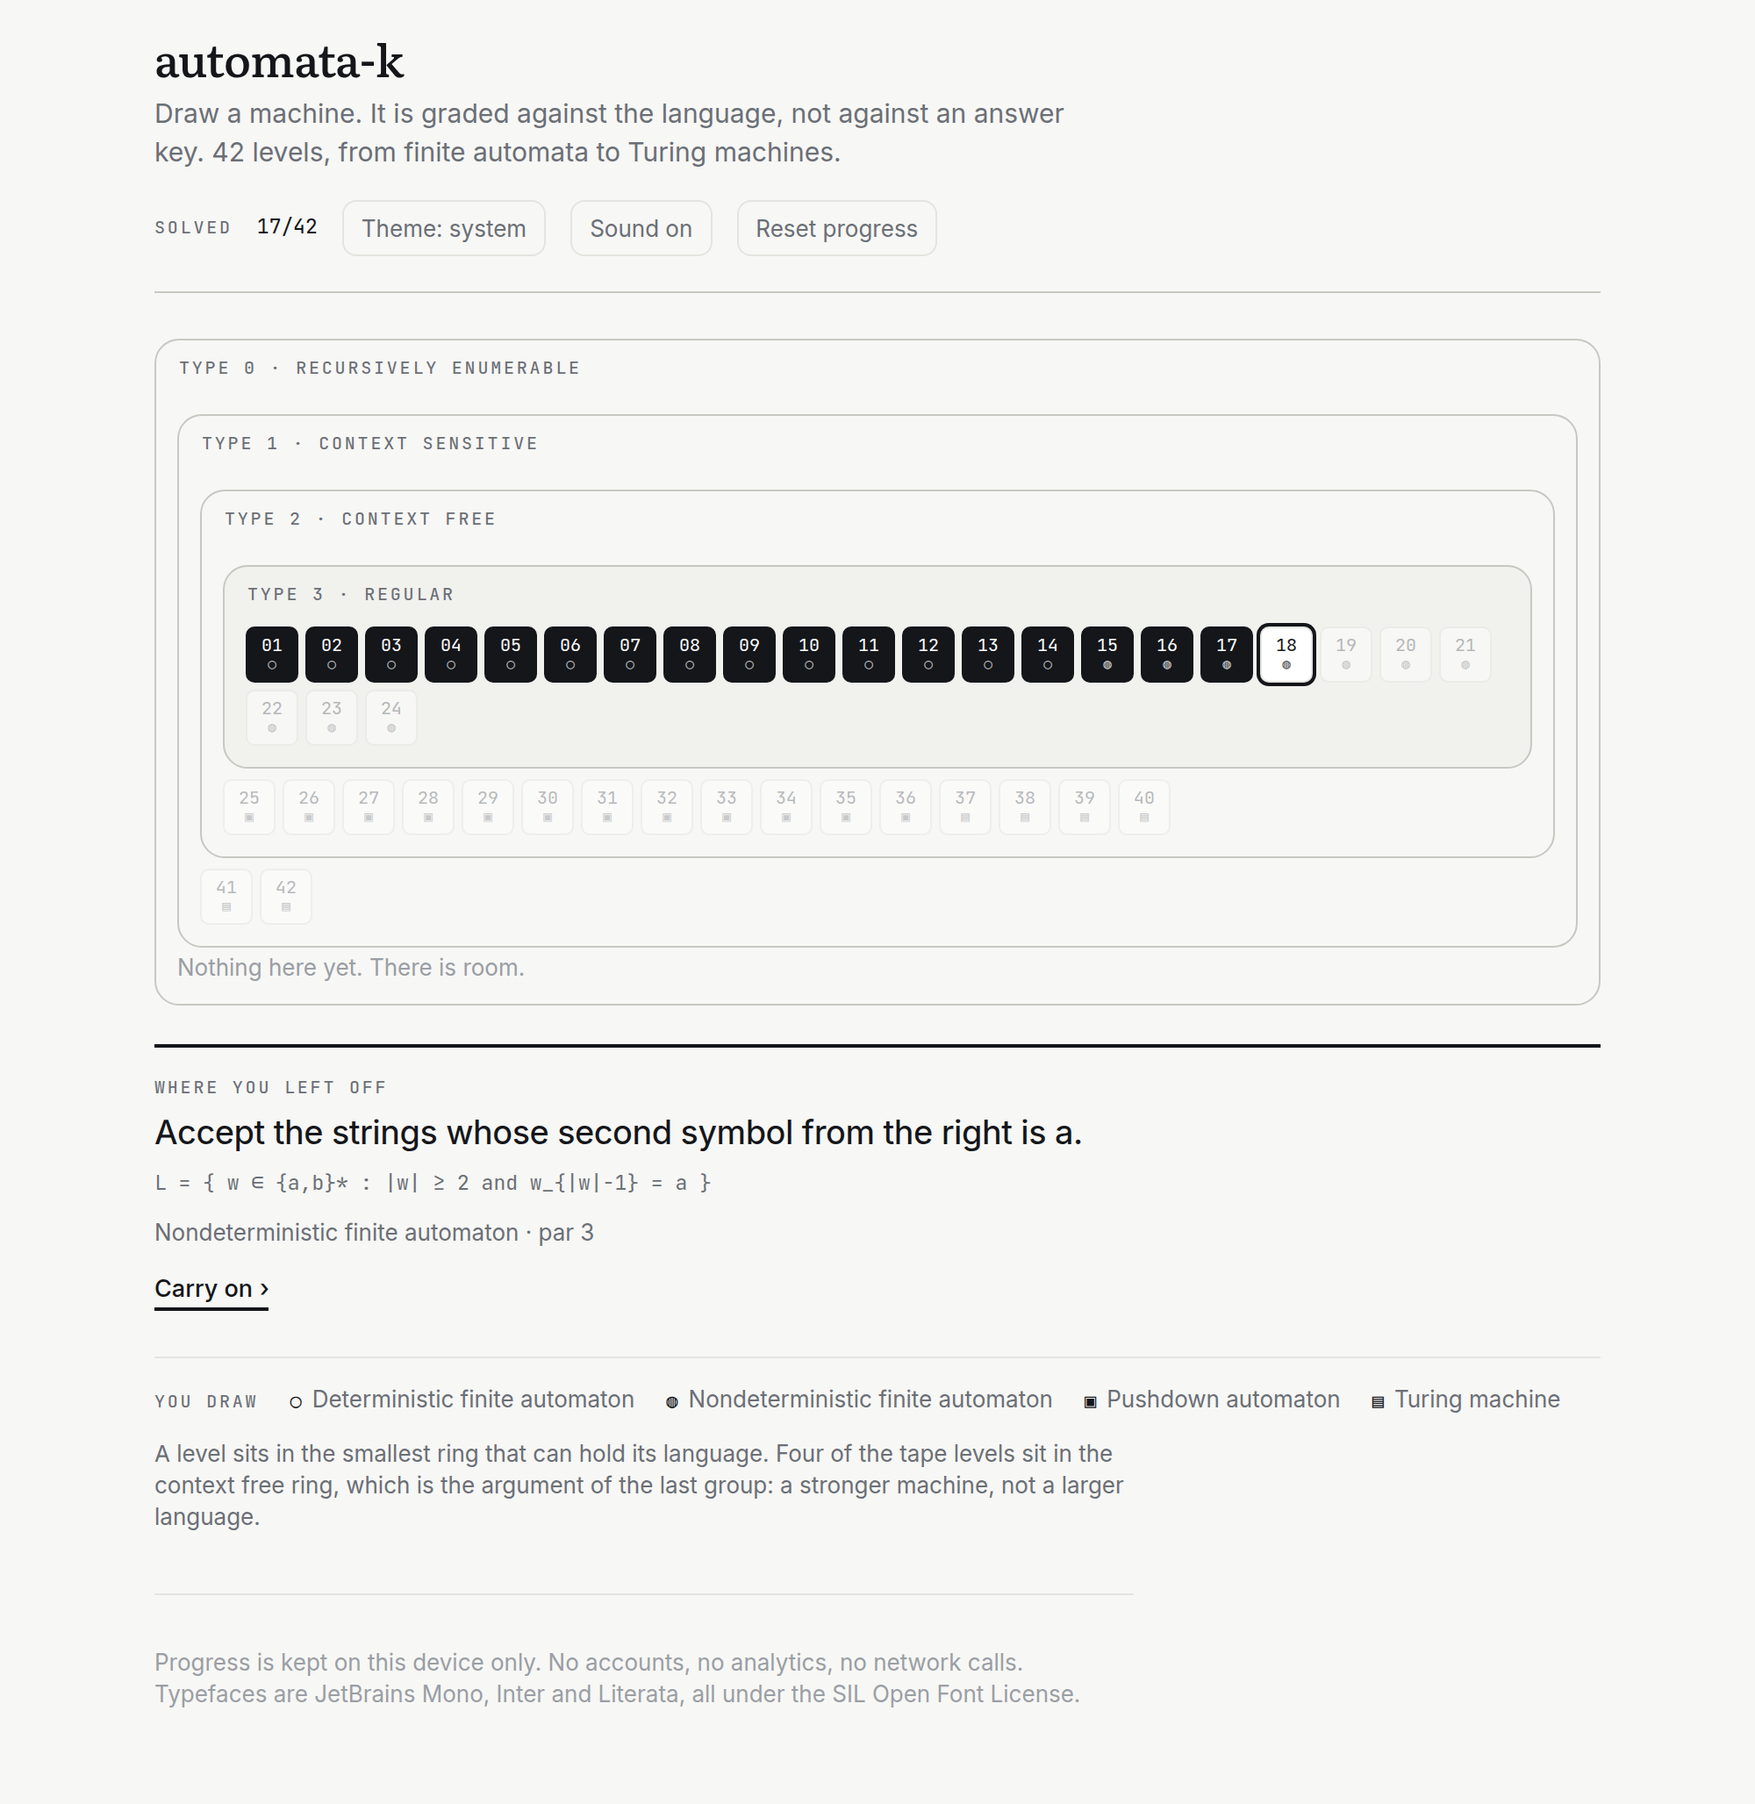
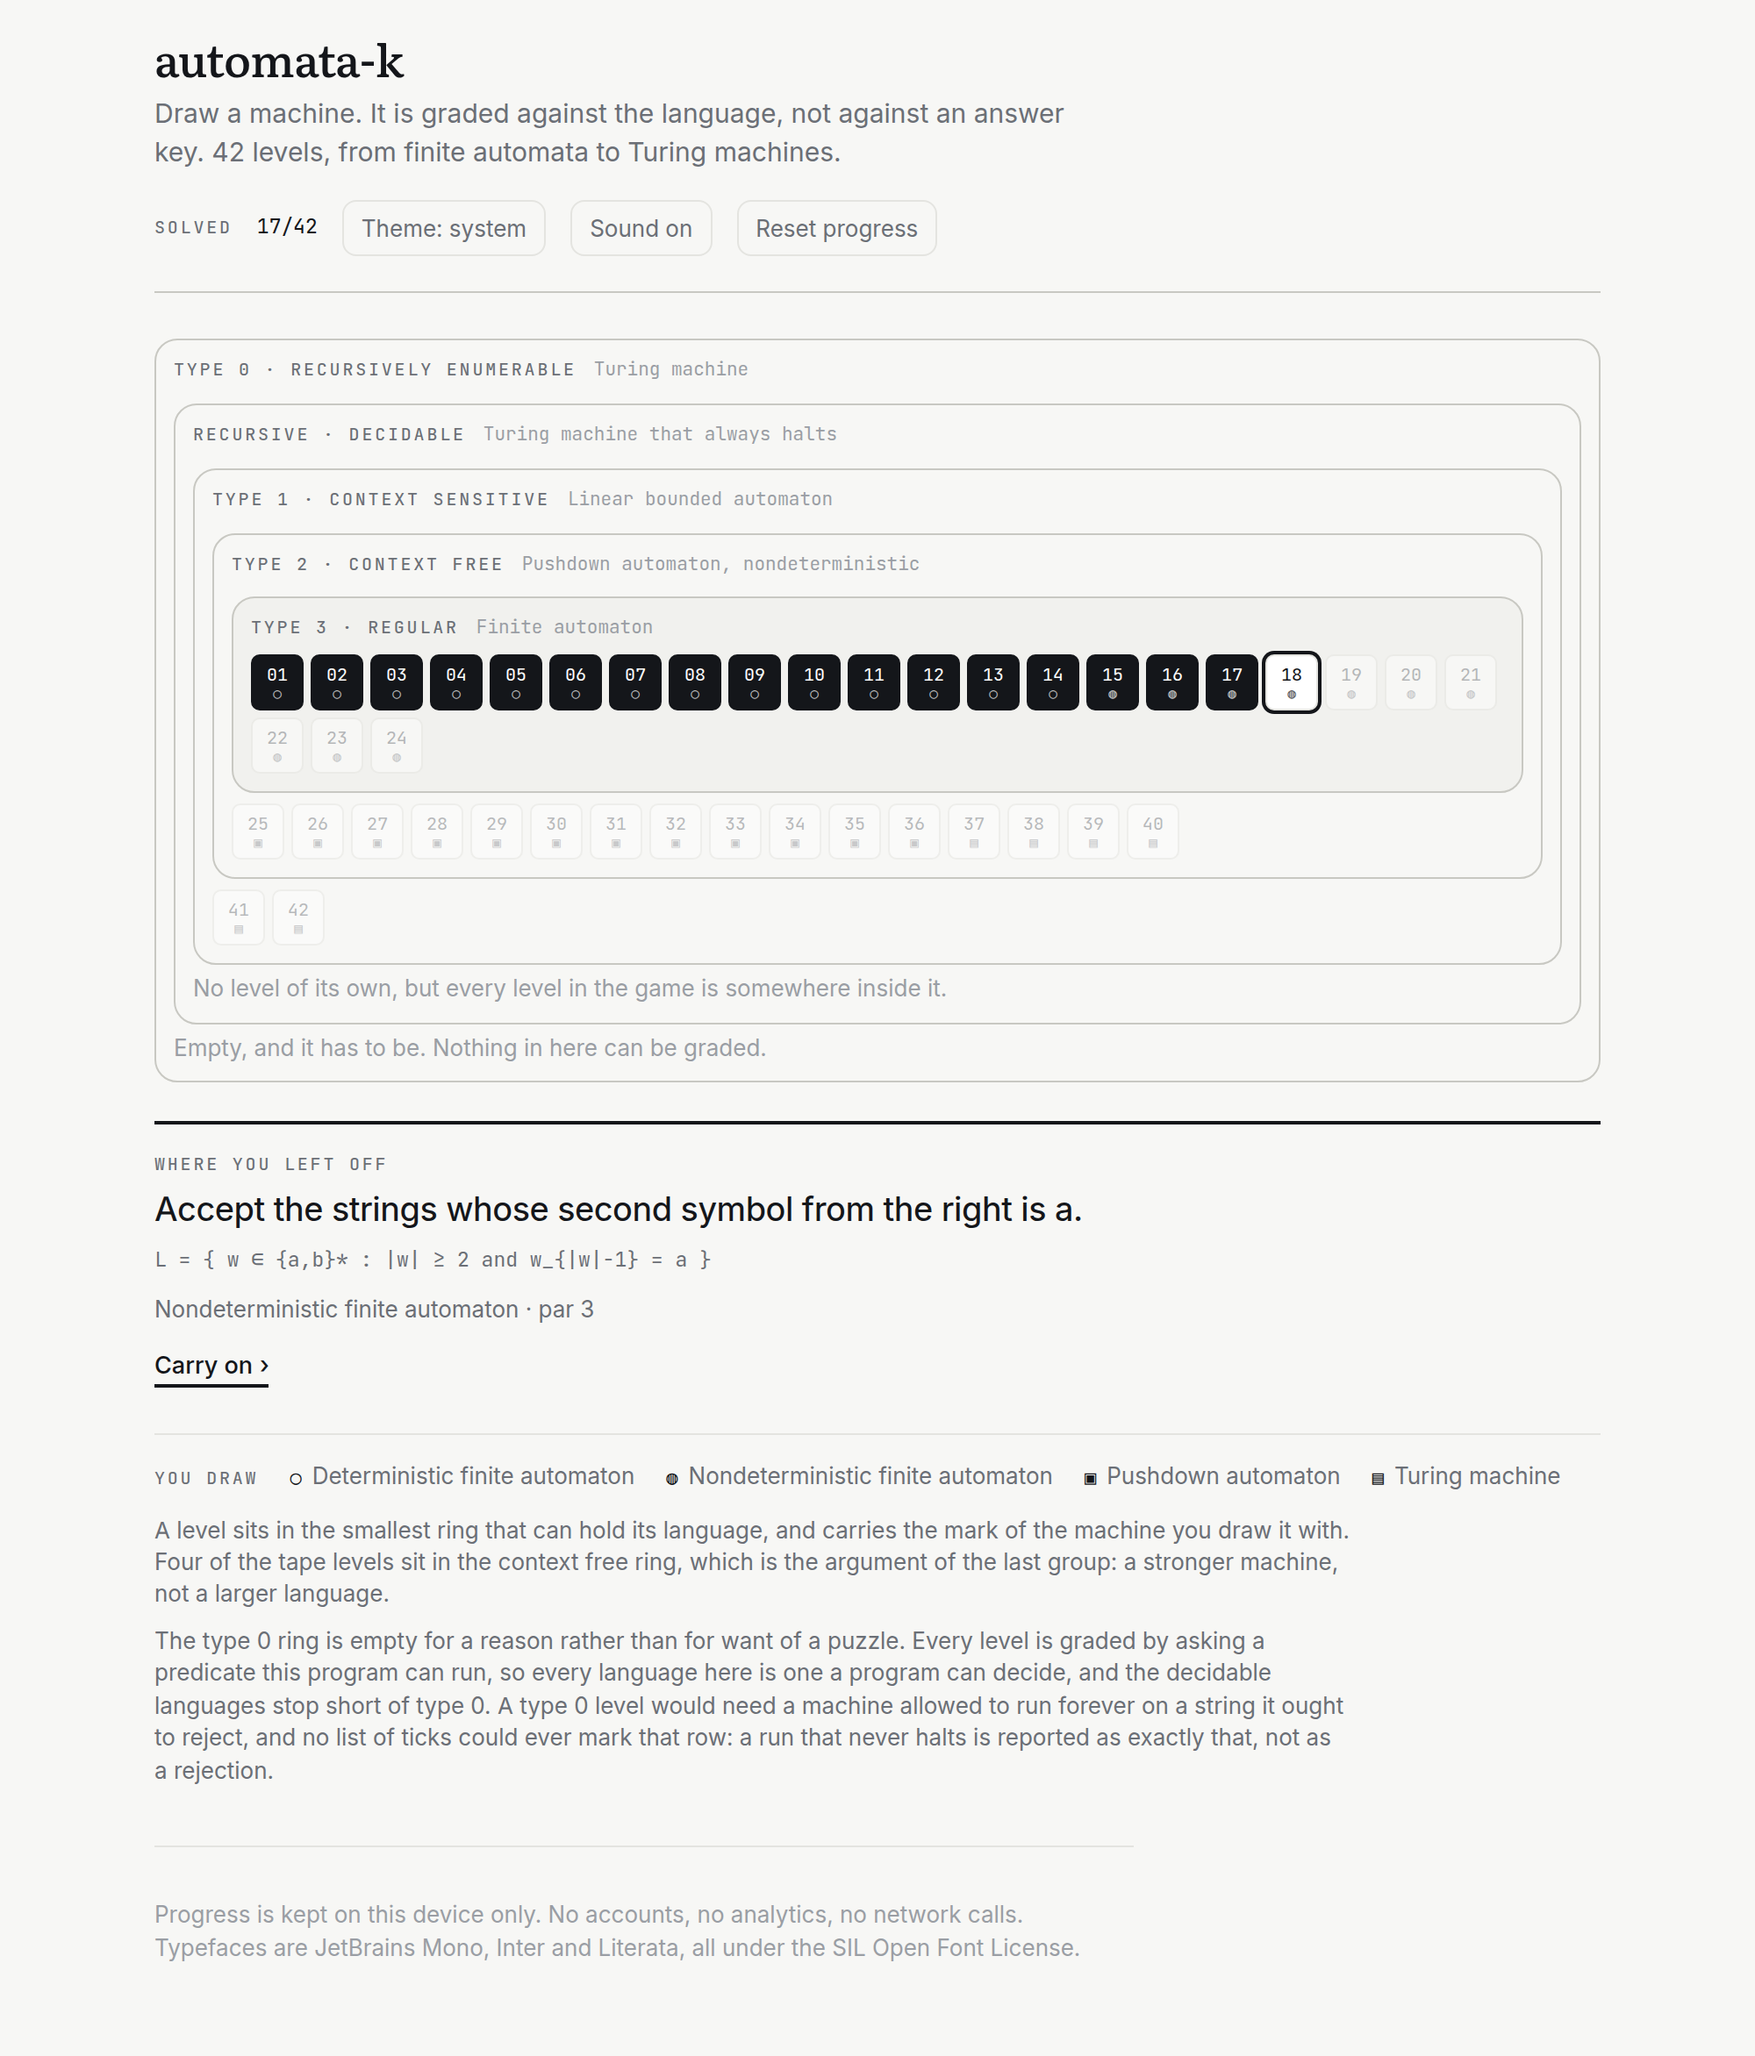
Name the automaton on every band, and say why type 0 is empty
Each band now carries the weakest machine that recognises everything in it,
the column the textbook table has and the level list never did: finite
automaton, pushdown automaton, linear bounded automaton, Turing machine.

And the answer to whether there can be a recursively enumerable puzzle is
no, structurally, which is worth more than a puzzle would have been. A level
is graded by asking a predicate this program runs, so every language here is
one a program can decide, and the decidable languages stop short of type 0.
A type 0 level would need a machine allowed to run forever on a string it
ought to reject, and no list of ticks could mark that row: simulate.ts
already reports a run that never halts as exactly that, never as a
rejection, and there is a test pinning that distinction.

So the recursive band is drawn. It is not one of Chomsky's four — Wikipedia
notes it sits properly between type 1 and type 0 — and it is where all forty
two levels live. That turns an empty ring reading "there is room" into an
empty ring that explains itself, which is the more interesting fact.

The band labels moved into flow. Absolutely placing them cost 28px of top
padding each, and five nested bands would have inset the regular languages
by 140px before the first dot.

Claude-Session: https://claude.ai/code/session_01Prr77wvNjGfi2it4qZKciv

diff --git a/web/src/views/home.ts b/web/src/views/home.ts
@@ -23,12 +23,36 @@ import { game } from '../store';
 import type { ThemeChoice } from '../store';
 import type { View } from './level';
 
-/** The rings, outermost first. Each holds the levels whose language it names. */
-const RINGS: { type: ChomskyType; label: string }[] = [
-  { type: 0, label: 'Type 0 · recursively enumerable' },
-  { type: 1, label: 'Type 1 · context sensitive' },
-  { type: 2, label: 'Type 2 · context free' },
-  { type: 3, label: 'Type 3 · regular' },
+/**
+ * The rings, outermost first: the class, the weakest machine that recognises
+ * everything in it, and why the band is empty where it is.
+ *
+ * The recursive band is not one of Chomsky's four. It belongs here anyway,
+ * because it is where every level in this game actually lives and it is the
+ * reason the type 0 ring is empty rather than unfinished.
+ */
+const RINGS: {
+  /** null for the recursive band, which the hierarchy does not number. */
+  type: ChomskyType | null;
+  label: string;
+  machine: string;
+  note?: string;
+}[] = [
+  {
+    type: 0,
+    label: 'Type 0 · recursively enumerable',
+    machine: 'Turing machine',
+    note: 'Empty, and it has to be. Nothing in here can be graded.',
+  },
+  {
+    type: null,
+    label: 'Recursive · decidable',
+    machine: 'Turing machine that always halts',
+    note: 'No level of its own, but every level in the game is somewhere inside it.',
+  },
+  { type: 1, label: 'Type 1 · context sensitive', machine: 'Linear bounded automaton' },
+  { type: 2, label: 'Type 2 · context free', machine: 'Pushdown automaton, nondeterministic' },
+  { type: 3, label: 'Type 3 · regular', machine: 'Finite automaton' },
 ];
 
 /** What you draw, as opposed to what the ring says the language is. */
@@ -194,11 +218,26 @@ export function createHomeView(navigate: (hash: string) => void): View {
       ),
     ),
     h(
-      'p',
-      { class: 't-small muted ring-note' },
-      'A level sits in the smallest ring that can hold its language. Four of the tape ' +
-        'levels sit in the context free ring, which is the argument of the last group: ' +
-        'a stronger machine, not a larger language.',
+      'div',
+      { class: 'ring-note' },
+      h(
+        'p',
+        { class: 't-small muted' },
+        'A level sits in the smallest ring that can hold its language, and carries the mark ' +
+          'of the machine you draw it with. Four of the tape levels sit in the context free ' +
+          'ring, which is the argument of the last group: a stronger machine, not a larger ' +
+          'language.',
+      ),
+      h(
+        'p',
+        { class: 't-small muted' },
+        'The type 0 ring is empty for a reason rather than for want of a puzzle. Every level ' +
+          'is graded by asking a predicate this program can run, so every language here is one ' +
+          'a program can decide, and the decidable languages stop short of type 0. A type 0 ' +
+          'level would need a machine allowed to run forever on a string it ought to reject, ' +
+          'and no list of ticks could ever mark that row: a run that never halts is reported ' +
+          'as exactly that, not as a rejection.',
+      ),
     ),
     h(
       'footer',
@@ -266,20 +305,21 @@ export function createHomeView(navigate: (hash: string) => void): View {
     // The rings are built inside out so each one can be put inside the last.
     let inner: HTMLElement | null = null;
     for (const ring of [...RINGS].reverse()) {
-      const held = LEVELS.filter((l) => l.chomsky === ring.type);
+      const key = ring.type === null ? 'recursive' : String(ring.type);
+      const held = ring.type === null ? [] : LEVELS.filter((l) => l.chomsky === ring.type);
       const box = h(
         'div',
-        { class: `ring ring-${ring.type}`, 'data-testid': `ring-${ring.type}` },
-        h('span', { class: 't-label ring-label' }, ring.label),
+        { class: `ring ring-${key}`, 'data-testid': `ring-${key}` },
+        h(
+          'p',
+          { class: 'ring-label' },
+          h('span', { class: 't-label' }, ring.label),
+          h('span', { class: 't-small faint ring-machine' }, ring.machine),
+        ),
       );
       if (inner) box.appendChild(inner);
-      if (held.length > 0) {
-        box.appendChild(h('div', { class: 'dots' }, ...held.map(dot)));
-      } else {
-        box.appendChild(
-          h('p', { class: 't-small faint ring-empty' }, 'Nothing here yet. There is room.'),
-        );
-      }
+      if (held.length > 0) box.appendChild(h('div', { class: 'dots' }, ...held.map(dot)));
+      else if (ring.note) box.appendChild(h('p', { class: 't-small faint ring-empty' }, ring.note));
       inner = box;
     }
     rings.textContent = '';

diff --git a/e2e/features.spec.ts b/e2e/features.spec.ts
@@ -450,8 +450,33 @@ test('the rings hold levels by language, not by machine', async ({ page }) => {
   // And the two that no stack can manage sit outside them.
   expect(contextSensitive).toEqual(['tm-an-bn-cn', 'tm-abcd']);
 
-  // Type 0 has nothing in it, and says so rather than showing an empty box.
+  // Type 0 has nothing in it, and says why rather than showing an empty box.
   await expect(page.locator('[data-testid="ring-0"] > .ring-empty')).toBeVisible();
+  await expect(page.locator('[data-testid="ring-recursive"] > .ring-empty')).toBeVisible();
+});
+
+/**
+ * The bands name the weakest machine that recognises all of them, which is the
+ * column the textbook table has and the level list never did. The recursive
+ * band is in there too: it is not one of Chomsky's four, and it is the reason
+ * the type 0 ring is empty rather than unfinished.
+ */
+test('every band names the automaton that recognises it', async ({ page }) => {
+  await page.goto('/');
+  const named = async (ring: string): Promise<string> =>
+    page.locator(`[data-testid="ring-${ring}"] > .ring-label .ring-machine`).innerText();
+
+  expect(await named('3')).toBe('Finite automaton');
+  expect(await named('2')).toBe('Pushdown automaton, nondeterministic');
+  expect(await named('1')).toBe('Linear bounded automaton');
+  expect(await named('recursive')).toBe('Turing machine that always halts');
+  expect(await named('0')).toBe('Turing machine');
+
+  // The bands nest, outermost first, and the decidable one sits between.
+  const order = await page
+    .locator('.ring')
+    .evaluateAll((rs) => rs.map((r) => (r as HTMLElement).dataset.testid));
+  expect(order).toEqual(['ring-0', 'ring-recursive', 'ring-1', 'ring-2', 'ring-3']);
 });
 
 /** Tidy has to leave every state where it can be seen, clear of its neighbours. */

diff --git a/web/src/app.css b/web/src/app.css
@@ -74,17 +74,27 @@
 }
 
 .ring {
-  position: relative;
   border: 1px solid var(--rule);
-  border-radius: 14px;
-  padding: 28px 12px 12px;
-  margin-top: 14px;
+  border-radius: 13px;
+  padding: 9px 10px 10px;
+  margin-top: 12px;
 }
 
+/* The class, then the weakest machine that recognises all of it. Five rings
+   nest now, so the label is in flow rather than absolutely placed: an absolute
+   one costs 28px of top padding per ring, which is 140px of inset by the time
+   the regular languages are reached. */
 .ring-label {
-  position: absolute;
-  top: 9px;
-  left: 13px;
+  display: flex;
+  flex-wrap: wrap;
+  align-items: baseline;
+  gap: 4px 10px;
+  margin: 0 0 2px;
+}
+
+.ring-machine {
+  font-family: var(--mono);
+  font-size: 10.5px;
 }
 
 /* The innermost ring is the one with the most in it, and the fill says so. */
@@ -93,7 +103,7 @@
 }
 
 .ring-empty {
-  margin: 2px 0 0;
+  margin: 4px 0 0;
 }
 
 .dots {
@@ -240,7 +250,15 @@
 
 .ring-note {
   margin: 12px 0 0;
-  max-width: 68ch;
+  max-width: 72ch;
+}
+
+.ring-note p {
+  margin: 0 0 8px;
+}
+
+.ring-note p:last-child {
+  margin-bottom: 0;
 }
 
 .home-foot {

diff --git a/README.md b/README.md
@@ -73,13 +73,23 @@ whose solution stopped matching its own language would fail the build.
 
 Par is the state count of a verified solution. Levels unlock in order.
 
-The level select is the hierarchy itself: four rings nested the way the classes
-are, and every level a dot in the smallest ring that can hold its **language**,
-carrying the mark of the **machine** you draw it with. Four of the tape levels
-sit inside the context free ring, which is the argument of the last group made
-as a picture — a stronger machine, not a larger language.
+The level select is the hierarchy itself: nested bands, each naming the weakest
+automaton that recognises everything in it, and every level a dot in the
+smallest band that can hold its **language**, carrying the mark of the
+**machine** you draw it with. Four of the tape levels sit inside the context
+free band, which is the argument of the last group made as a picture — a
+stronger machine, not a larger language.
 
-![The four rings, with a level in each of the classes it belongs to](docs/home.png)
+The type 0 band is empty, and not for want of a puzzle. Every level is graded by
+asking a predicate this program runs, so every language here is one a program can
+**decide**, and the decidable languages stop short of type 0. A type 0 level
+would need a machine allowed to run forever on a string it ought to reject, and
+no list of ticks could mark that row: `simulate.ts` reports a run that never
+halts as exactly that, never as a rejection. The **recursive** band is drawn for
+that reason. It is not one of Chomsky's four, and it is where all forty two
+levels live.
+
+![The nested bands, each naming the automaton that recognises it](docs/home.png)
 
 ## The machine, as a formal object
 
@@ -201,7 +211,7 @@ production shows up immediately, including in the context sensitive grammar for
 Alongside those: validation tests, simulation cap tests, a property test
 determinising random NFAs, Hopcroft minimisation against par, state elimination
 checked against every level language, arrow geometry pinned by tests rather than
-by eye, and 50 Playwright tests over two viewports.
+by eye, and 52 Playwright tests over two viewports.
 
 ## Layout
 
